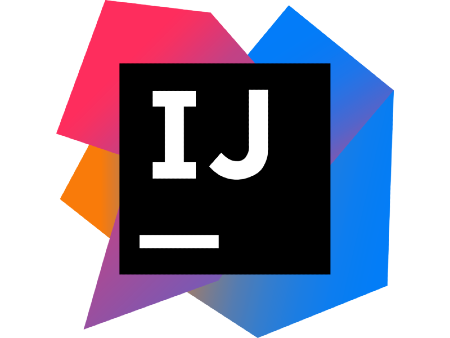
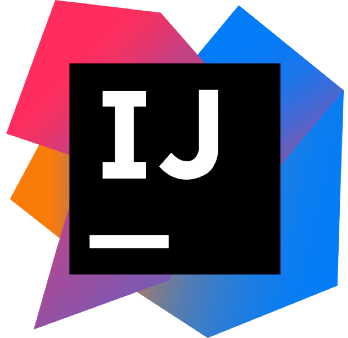
이미지 갱신

diff --git a/app/data/portfolioData.ts b/app/data/portfolioData.ts
@@ -7,13 +7,13 @@ export const privacyData = [
 ];
 
 export const stackData = [
-    { id: 1, name: 'Backend', value: ['php.png', 'kotlin.png'], size: ['100', '85'], text: ['', ''] },
+    { id: 1, name: 'Backend', value: ['php.png', 'kotlin.png'], size: ['120', '120'], text: ['', ''] },
     { id: 2, name: '자격증', value: ['certifi.png'], size: ['100'], text: ['정보처리기사'] },
     { id: 3, name: 'Version Control', value: ['github.png', 'jenkins.png'], size: ['120', '140'], text: ['', ''] },
-    { id: 4, name: 'IDE Tool', value: ['phpstorm.png', 'intellij.png'], size: ['80', '100'], text: ['', ''] },
-    { id: 5, name: 'Platform', value: ['docker.png'], size: ['100'], text: [''] },
+    { id: 4, name: 'IDE Tool', value: ['phpstorm.png', 'intellij.png'], size: ['80', '80'], text: ['', ''] },
+    { id: 5, name: 'Platform', value: ['docker.png'], size: ['120'], text: [''] },
     { id: 6, name: 'Framework', value: ['ci4.png', 'boot_spring.png'], size: ['80', '150'], text: ['', ''] },
-    { id: 7, name: 'Amazon Cloud', value: ['aws/ec2.png', 'aws/ecr.png', 'aws/ecs.png', 'aws/iam.png', 'aws/load_balancer.png', 'aws/rds.png', 'aws/s3.png'], size: ['90', '90', '90', '60', '120', '75', '75'], text: ['', '', '', '', '', '', ''] },
+    { id: 7, name: 'Amazon Cloud', value: ['aws/ec2.png', 'aws/ecr.png', 'aws/ecs.png', 'aws/iam.png', 'aws/load_balancer.png', 'aws/rds.png', 'aws/s3.png'], size: ['90', '90', '90', '65', '120', '90', '90'], text: ['', '', '', '', '', '', ''] },
 ];
 
 

diff --git a/app/components/user/Main.tsx b/app/components/user/Main.tsx
@@ -161,9 +161,13 @@ export default function Introduction() {
                                                     style={{ width: `${item.size[i]}px`, height: 'auto' }}
                                                     className="object-contain"
                                                 />
-                                                <div className='text-center pt-2'>
-                                                    {item.text[i]}
-                                                </div>
+
+                                                {item.text[i] && (
+                                                    <div className="text-center pt-2">
+                                                        {item.text[i]}
+                                                    </div>
+                                                )}
+
                                             </div>
                                         ))}
                                     </div>

diff --git a/app/lib/image/slide.tsx b/app/lib/image/slide.tsx
@@ -76,7 +76,7 @@ export function ImageSlider({ images }: ImageSliderProps) {
         >
             {/* 슬라이드 이미지 */}
             <div
-                className="flex h-full transition-transform duration-300 ease-out"
+                className="flex min-w-full h-full transition-transform duration-300 ease-out"
                 style={{
                     transform: `translateX(calc(-${currentSlide * 100}% + ${translateX}px))`,
                     transition: isDragging ? 'none' : 'transform 0.3s ease-out'

diff --git a/app/components/user/portfolio/careerBlock.tsx b/app/components/user/portfolio/careerBlock.tsx
@@ -20,7 +20,7 @@ export const PortfolioItemComponent = ({ settings, t }: Props) => {
 
                 // 🔥 Custom Slider Wrapper
                 const SliderSection = () => (
-                    <div className="w-full bg-gray-100 dark:bg-neutral-900 p-4">
+                    <div className="w-full bg-gray-100 dark:bg-neutral-900">
                         <div className="rounded-2xl overflow-hidden shadow-lg">
                             <ImageSlider images={item.images} />
                         </div>
